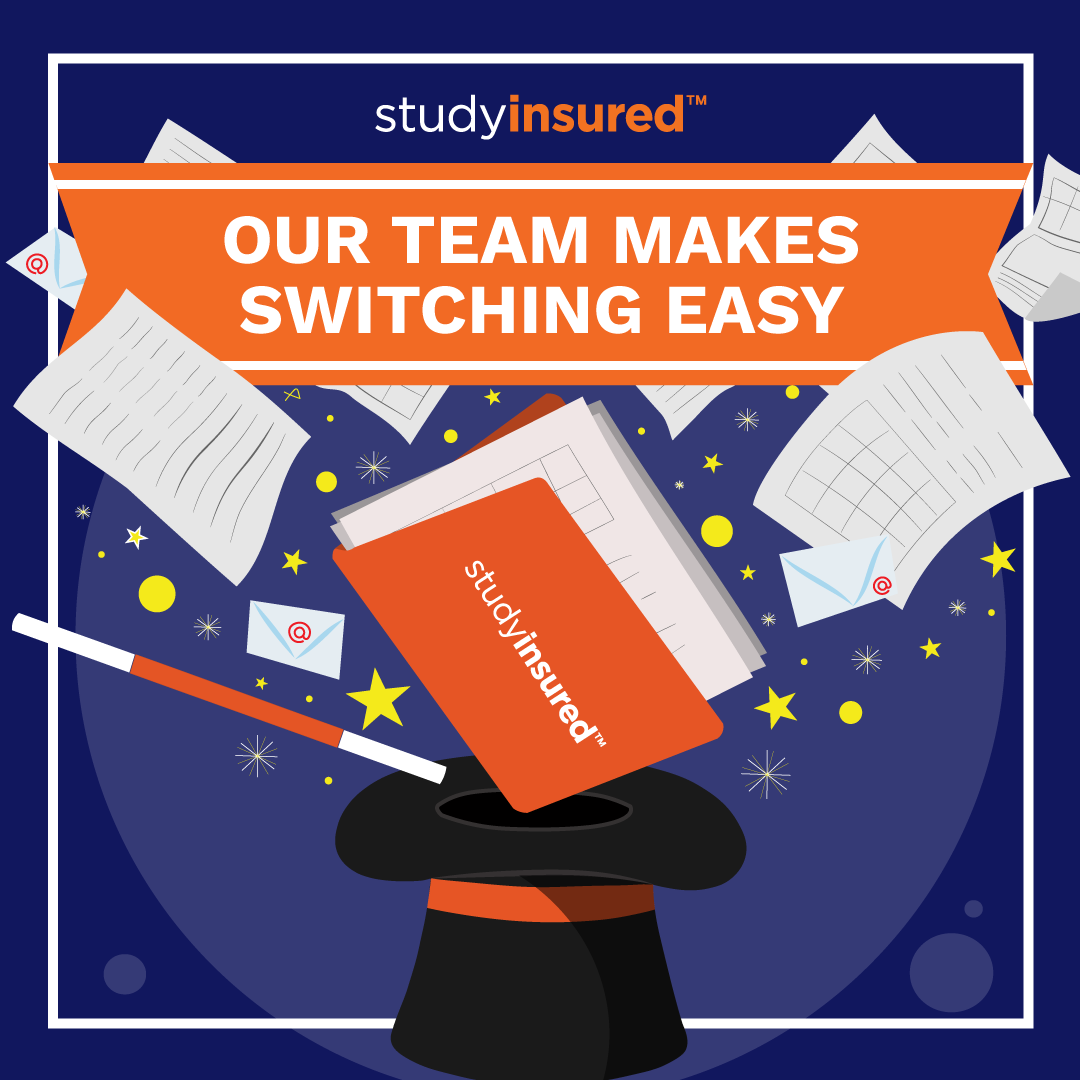
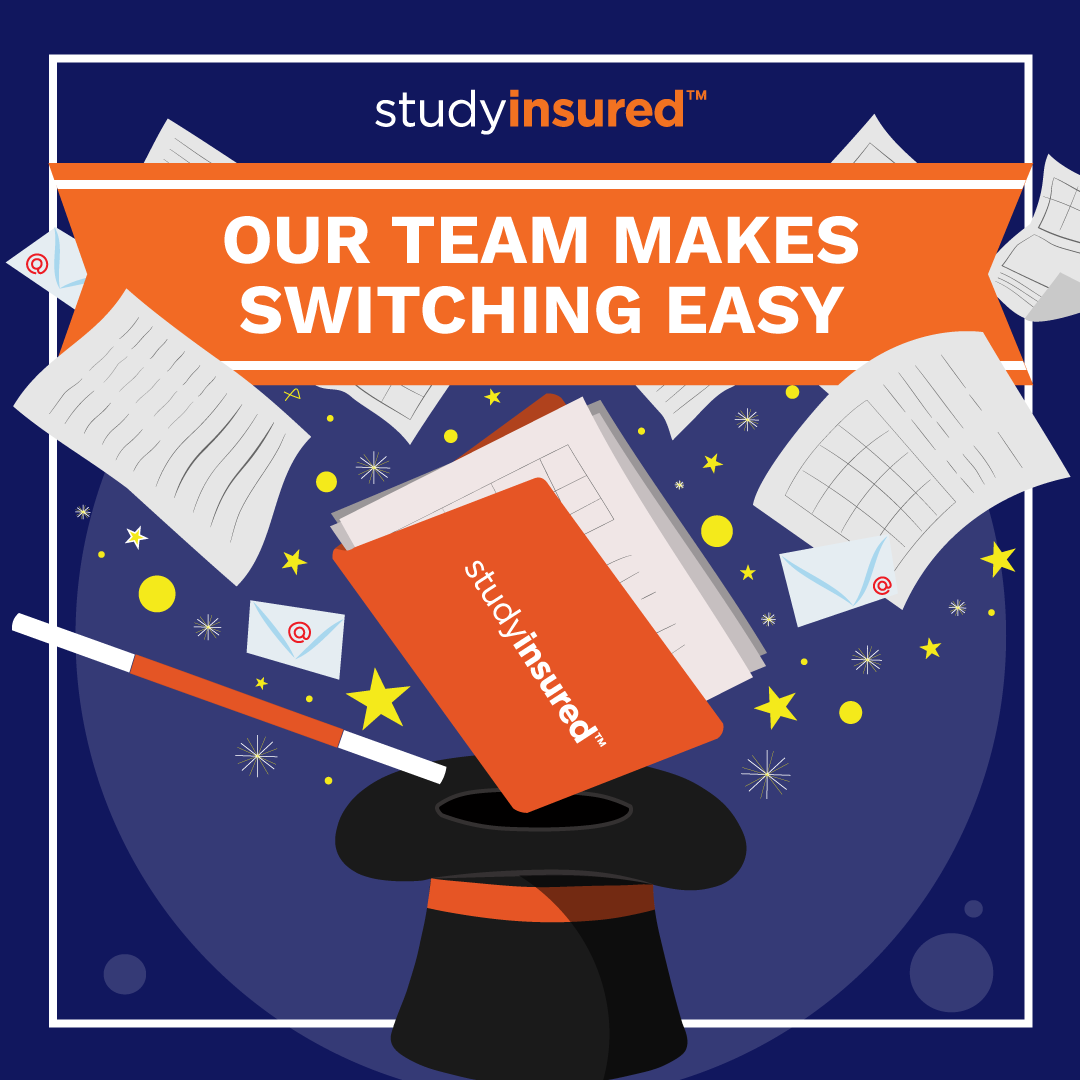
illustrations + dimension of image changed

diff --git a/index.html b/index.html
@@ -470,7 +470,7 @@
                     <div class="item-folio">
                             
                         <div class="item-folio__thumb">
-                            <a href="images/portfolio/illustration5.png" class="thumb-link" title="Staff Newsletter Halloween Poster" data-size="600x800">
+                            <a href="images/portfolio/illustration5.png" class="thumb-link" title="Staff Newsletter Halloween Poster" data-size="450x342">
                                 <img src="images/portfolio/illustration5.png" 
                                      srcset="images/portfolio/illustration5.png" alt="">
                             </a>
@@ -494,7 +494,7 @@
                     <div class="item-folio">
                             
                         <div class="item-folio__thumb">
-                            <a href="images/portfolio/illustration6.png" class="thumb-link" title="Flower Girl" data-size="600x600">
+                            <a href="images/portfolio/illustration6.png" class="thumb-link" title="Flower Girl" data-size="1080x1080">
                                 <img src="images/portfolio/illustration6.png" 
                                      srcset="images/portfolio/illustration6.png" alt="">
                             </a>
